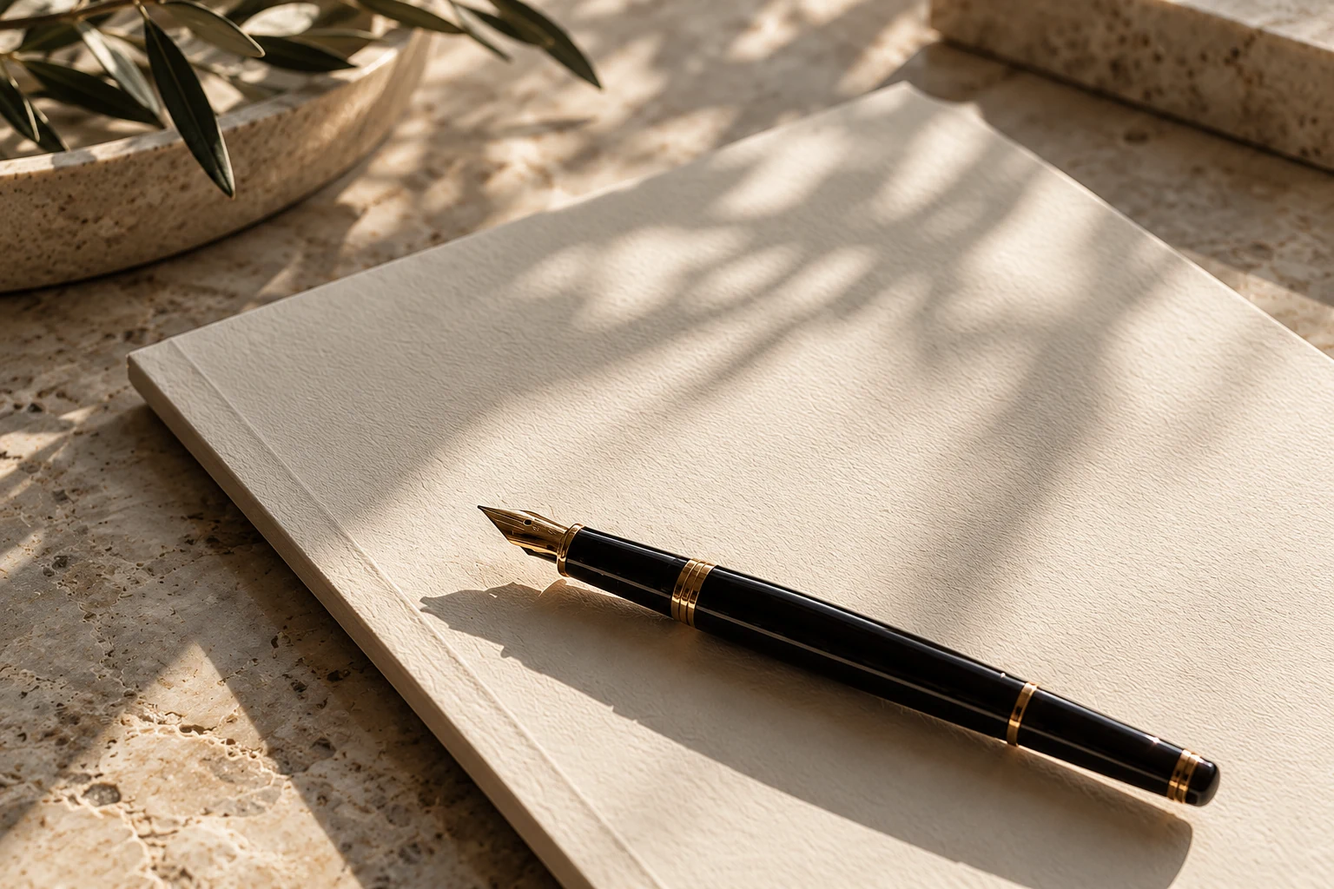
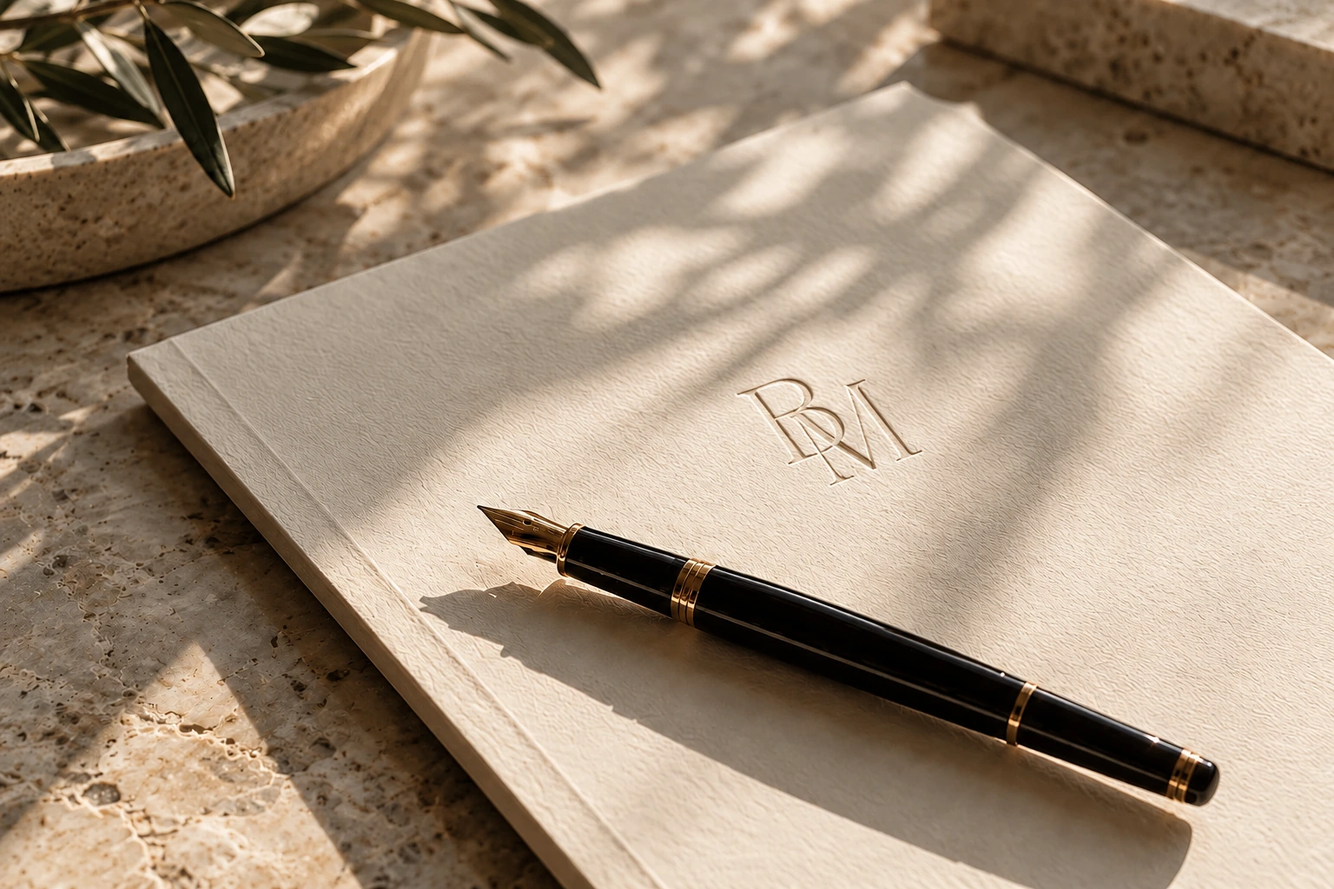
Add embossed BM monogram to paper photograph

diff --git a/site/index.html b/site/index.html
@@ -1,2 +1,2 @@
 <!doctype html>
-<html lang="el"><head><meta charset="utf-8"><meta name="viewport" content="width=device-width,initial-scale=1"><meta name="robots" content="noindex,nofollow"><meta name="description" content="Δικηγορία και διαπιστευμένη διαμεσολάβηση στο Κολωνάκι. Το γραφείο, οι τομείς δικαίου και η επικοινωνία."><title>ΒΑΣΙΛΙΚΗ ΜΑΛΛΙΑΡΟΥ | Δικηγόρος στο Κολωνάκι</title><link rel="icon" href="favicon.svg" type="image/svg+xml"><link rel="preload" href="assets/gfs-didot.ttf" as="font" type="font/ttf" crossorigin><link rel="preload" href="assets/noto-sans.ttf" as="font" type="font/ttf" crossorigin><link rel="stylesheet" href="styles.css"><script src="site.js" defer></script></head><body><a class="skip" href="#main">Μετάβαση στο περιεχόμενο</a><header class="site-header"><div class="wrap header-inner"><a class="brand reveal" href="index.html" aria-label="ΒΑΣΙΛΙΚΗ ΜΑΛΛΙΑΡΟΥ — Αρχική"><span class="monogram" aria-hidden="true"><span>Β</span><span>Μ</span></span><span class="brand-name">ΒΑΣΙΛΙΚΗ ΜΑΛΛΙΑΡΟΥ</span></a><button class="menu-toggle" type="button" aria-controls="navigation" aria-expanded="false">Μενού</button><nav class="primary-nav reveal" id="navigation" aria-label="Κύρια πλοήγηση" style="--delay:60ms"><a href="grafeio.html">Το γραφείο</a><a href="tomeis.html">Τομείς δικαίου</a><a href="diamesolavisi.html">Διαμεσολάβηση</a><a href="epikoinonia.html">Επικοινωνία</a></nav></div></header><main id="main"><div class="wrap"><section class="hero"><h1 class="reveal" style="--delay:120ms">Η υπόθεσή σας<br>στο επίκεντρο.</h1><p class="lead reveal" style="--delay:180ms">Δικηγόρος και διαπιστευμένη διαμεσολαβήτρια στο Κολωνάκι.</p><div class="reveal" style="--delay:240ms"><a class="button" href="epikoinonia.html">Επικοινωνία</a></div></section><div class="hero-diptych"><figure class=" reveal"><img src="assets/paper-pen.webp" alt="" width="1600" height="1067" loading="eager" fetchpriority="high" decoding="async" style=""></figure><figure class=" reveal"><img src="assets/bronze-stone.webp" alt="" width="1600" height="1067" loading="lazy" decoding="async" style=""></figure></div><section class="section split"><div><h2 class="reveal">Το γραφείο</h2><figure class="office-photo reveal"><img src="assets/light-door.webp" alt="" width="1600" height="1067" loading="lazy" decoding="async" style=""></figure></div><div class="reveal"><p class="statement">Δικηγορία και διαμεσολάβηση στην Αθήνα.</p><p>Το γραφείο ΒΑΣΙΛΙΚΗ ΜΑΛΛΙΑΡΟΥ βρίσκεται στην οδό Μέρλιν 11, στο Κολωνάκι. Η επαγγελματική παρουσία συνδυάζει τη δικηγορία με τη διαπιστευμένη διαμεσολάβηση.</p><p>Γνωρίστε τους τομείς δικαίου, διαβάστε μια σύντομη εισαγωγή στη διαμεσολάβηση και επιλέξτε τον τρόπο επικοινωνίας που σας εξυπηρετεί.</p><a class="text-link" href="grafeio.html">Γνωρίστε το γραφείο</a><p class="location">Μέρλιν 11, Κολωνάκι</p></div></section><section class="section practice-overview" style="padding-top:0"><div class="section-heading reveal"><h2>Τομείς δικαίου</h2><p>Βρείτε το θέμα που βρίσκεται πιο κοντά στο ερώτημά σας. Η επιλογή κατηγορίας βοηθά στην πρώτη περιγραφή· η συγκεκριμένη υπόθεση χρειάζεται δική της αξιολόγηση.</p><a class="text-link" href="tomeis.html">Δείτε τους τομείς αναλυτικά</a></div><div class="practice-links"><a class="reveal" href="tomeis.html#poiniko"><h3>Ποινικό Δίκαιο</h3><p>Ζητήματα που συνδέονται με ποινικές υποθέσεις και διαδικασίες.</p></a><a class="reveal" href="tomeis.html#astiko"><h3>Αστικό Δίκαιο</h3><p>Ιδιωτικές σχέσεις, δικαιώματα και διαφορές.</p></a><a class="reveal" href="tomeis.html#oikogeneiako"><h3>Οικογενειακό Δίκαιο</h3><p>Ζητήματα που προκύπτουν στις οικογενειακές σχέσεις.</p></a><a class="reveal" href="tomeis.html#symvaseis"><h3>Δίκαιο Συμβάσεων</h3><p>Συμφωνίες, όροι και συμβατικές υποχρεώσεις.</p></a><a class="reveal" href="tomeis.html#allodapon"><h3>Δίκαιο Αλλοδαπών</h3><p>Ζητήματα διαμονής και διοικητικών διαδικασιών.</p></a><a class="reveal" href="tomeis.html#diamesolavisi"><h3>Διαμεσολάβηση</h3><p>Μια διαδικασία διαλόγου για την επίλυση διαφορών.</p></a></div></section></div><section class="tone"><div class="wrap split"><div class="reveal"><h2>Δίκαιο και διάλογος</h2><p class="statement">Μια διαδικασία διαλόγου για την επίλυση διαφορών.</p><p>Η διαμεσολάβηση δίνει χώρο στην επικοινωνία των μερών, με τη βοήθεια ενός ουδέτερου τρίτου προσώπου. Στόχος είναι να διερευνηθεί αν μπορεί να βρεθεί κοινά αποδεκτή λύση.</p><a class="text-link" href="diamesolavisi.html">Γνωρίστε τη διαμεσολάβηση</a></div><figure class="feature-photo reveal"><img src="assets/quiet-table.webp" alt="" width="1600" height="1067" loading="lazy" decoding="async" style=""></figure></div></section><section class="section wrap contact-close"><div class="reveal"><h2>Η πρώτη επικοινωνία</h2><p>Μια σύντομη περιγραφή του θέματος και των βασικών ημερομηνιών είναι μια χρήσιμη αρχή. Δεν χρειάζεται να γνωρίζετε τον ακριβή νομικό όρο για να περιγράψετε όσα σας απασχολούν.</p></div><div class="reveal"><p class="lead">Επιλέξτε τον τρόπο επικοινωνίας που σας εξυπηρετεί.</p><a class="button" href="epikoinonia.html">Επικοινωνία</a><div class="contact-inline"><a href="tel:+306943598746">694 359 8746</a><a href="tel:+302103603919">210 360 3919</a></div></div></section></main><footer class="site-footer"><div class="wrap"><div class="footer-main"><div><h2>Επικοινωνία</h2><p class="footer-brand">ΒΑΣΙΛΙΚΗ ΜΑΛΛΙΑΡΟΥ</p><p>Δικηγόρος · Διαπιστευμένη Διαμεσολαβήτρια</p></div><div><p>Μέρλιν 11, Κολωνάκι, 10671 Αθήνα</p><p><a href="tel:+306943598746">694 359 8746</a> &nbsp; <a href="tel:+302103603919">210 360 3919</a></p><a class="button" href="epikoinonia.html">Επικοινωνία</a></div></div><nav class="footer-links" aria-label="Πλοήγηση υποσέλιδου"><a href="grafeio.html">Το γραφείο</a><a href="tomeis.html">Τομείς δικαίου</a><a href="diamesolavisi.html">Διαμεσολάβηση</a><a href="epikoinonia.html">Επικοινωνία</a></nav><div class="footer-notes"><p>Επίδειξη σχεδιασμού ιστοσελίδας. Οι εικόνες και το μονόγραμμα αποτελούν οπτική πρόταση.</p><p>Το περιεχόμενο είναι γενικό και δεν αποτελεί εξατομικευμένη νομική συμβουλή.</p></div></div></footer></body></html>
+<html lang="el"><head><meta charset="utf-8"><meta name="viewport" content="width=device-width,initial-scale=1"><meta name="robots" content="noindex,nofollow"><meta name="description" content="Δικηγορία και διαπιστευμένη διαμεσολάβηση στο Κολωνάκι. Το γραφείο, οι τομείς δικαίου και η επικοινωνία."><title>ΒΑΣΙΛΙΚΗ ΜΑΛΛΙΑΡΟΥ | Δικηγόρος στο Κολωνάκι</title><link rel="icon" href="favicon.svg" type="image/svg+xml"><link rel="preload" href="assets/gfs-didot.ttf" as="font" type="font/ttf" crossorigin><link rel="preload" href="assets/noto-sans.ttf" as="font" type="font/ttf" crossorigin><link rel="stylesheet" href="styles.css"><script src="site.js" defer></script></head><body><a class="skip" href="#main">Μετάβαση στο περιεχόμενο</a><header class="site-header"><div class="wrap header-inner"><a class="brand reveal" href="index.html" aria-label="ΒΑΣΙΛΙΚΗ ΜΑΛΛΙΑΡΟΥ — Αρχική"><span class="monogram" aria-hidden="true"><span>Β</span><span>Μ</span></span><span class="brand-name">ΒΑΣΙΛΙΚΗ ΜΑΛΛΙΑΡΟΥ</span></a><button class="menu-toggle" type="button" aria-controls="navigation" aria-expanded="false">Μενού</button><nav class="primary-nav reveal" id="navigation" aria-label="Κύρια πλοήγηση" style="--delay:60ms"><a href="grafeio.html">Το γραφείο</a><a href="tomeis.html">Τομείς δικαίου</a><a href="diamesolavisi.html">Διαμεσολάβηση</a><a href="epikoinonia.html">Επικοινωνία</a></nav></div></header><main id="main"><div class="wrap"><section class="hero"><h1 class="reveal" style="--delay:120ms">Η υπόθεσή σας<br>στο επίκεντρο.</h1><p class="lead reveal" style="--delay:180ms">Δικηγόρος και διαπιστευμένη διαμεσολαβήτρια στο Κολωνάκι.</p><div class="reveal" style="--delay:240ms"><a class="button" href="epikoinonia.html">Επικοινωνία</a></div></section><div class="hero-diptych"><figure class=" reveal"><img src="assets/paper-pen.webp?v=bm-1" alt="" width="1600" height="1067" loading="eager" fetchpriority="high" decoding="async" style=""></figure><figure class=" reveal"><img src="assets/bronze-stone.webp" alt="" width="1600" height="1067" loading="lazy" decoding="async" style=""></figure></div><section class="section split"><div><h2 class="reveal">Το γραφείο</h2><figure class="office-photo reveal"><img src="assets/light-door.webp" alt="" width="1600" height="1067" loading="lazy" decoding="async" style=""></figure></div><div class="reveal"><p class="statement">Δικηγορία και διαμεσολάβηση στην Αθήνα.</p><p>Το γραφείο ΒΑΣΙΛΙΚΗ ΜΑΛΛΙΑΡΟΥ βρίσκεται στην οδό Μέρλιν 11, στο Κολωνάκι. Η επαγγελματική παρουσία συνδυάζει τη δικηγορία με τη διαπιστευμένη διαμεσολάβηση.</p><p>Γνωρίστε τους τομείς δικαίου, διαβάστε μια σύντομη εισαγωγή στη διαμεσολάβηση και επιλέξτε τον τρόπο επικοινωνίας που σας εξυπηρετεί.</p><a class="text-link" href="grafeio.html">Γνωρίστε το γραφείο</a><p class="location">Μέρλιν 11, Κολωνάκι</p></div></section><section class="section practice-overview" style="padding-top:0"><div class="section-heading reveal"><h2>Τομείς δικαίου</h2><p>Βρείτε το θέμα που βρίσκεται πιο κοντά στο ερώτημά σας. Η επιλογή κατηγορίας βοηθά στην πρώτη περιγραφή· η συγκεκριμένη υπόθεση χρειάζεται δική της αξιολόγηση.</p><a class="text-link" href="tomeis.html">Δείτε τους τομείς αναλυτικά</a></div><div class="practice-links"><a class="reveal" href="tomeis.html#poiniko"><h3>Ποινικό Δίκαιο</h3><p>Ζητήματα που συνδέονται με ποινικές υποθέσεις και διαδικασίες.</p></a><a class="reveal" href="tomeis.html#astiko"><h3>Αστικό Δίκαιο</h3><p>Ιδιωτικές σχέσεις, δικαιώματα και διαφορές.</p></a><a class="reveal" href="tomeis.html#oikogeneiako"><h3>Οικογενειακό Δίκαιο</h3><p>Ζητήματα που προκύπτουν στις οικογενειακές σχέσεις.</p></a><a class="reveal" href="tomeis.html#symvaseis"><h3>Δίκαιο Συμβάσεων</h3><p>Συμφωνίες, όροι και συμβατικές υποχρεώσεις.</p></a><a class="reveal" href="tomeis.html#allodapon"><h3>Δίκαιο Αλλοδαπών</h3><p>Ζητήματα διαμονής και διοικητικών διαδικασιών.</p></a><a class="reveal" href="tomeis.html#diamesolavisi"><h3>Διαμεσολάβηση</h3><p>Μια διαδικασία διαλόγου για την επίλυση διαφορών.</p></a></div></section></div><section class="tone"><div class="wrap split"><div class="reveal"><h2>Δίκαιο και διάλογος</h2><p class="statement">Μια διαδικασία διαλόγου για την επίλυση διαφορών.</p><p>Η διαμεσολάβηση δίνει χώρο στην επικοινωνία των μερών, με τη βοήθεια ενός ουδέτερου τρίτου προσώπου. Στόχος είναι να διερευνηθεί αν μπορεί να βρεθεί κοινά αποδεκτή λύση.</p><a class="text-link" href="diamesolavisi.html">Γνωρίστε τη διαμεσολάβηση</a></div><figure class="feature-photo reveal"><img src="assets/quiet-table.webp" alt="" width="1600" height="1067" loading="lazy" decoding="async" style=""></figure></div></section><section class="section wrap contact-close"><div class="reveal"><h2>Η πρώτη επικοινωνία</h2><p>Μια σύντομη περιγραφή του θέματος και των βασικών ημερομηνιών είναι μια χρήσιμη αρχή. Δεν χρειάζεται να γνωρίζετε τον ακριβή νομικό όρο για να περιγράψετε όσα σας απασχολούν.</p></div><div class="reveal"><p class="lead">Επιλέξτε τον τρόπο επικοινωνίας που σας εξυπηρετεί.</p><a class="button" href="epikoinonia.html">Επικοινωνία</a><div class="contact-inline"><a href="tel:+306943598746">694 359 8746</a><a href="tel:+302103603919">210 360 3919</a></div></div></section></main><footer class="site-footer"><div class="wrap"><div class="footer-main"><div><h2>Επικοινωνία</h2><p class="footer-brand">ΒΑΣΙΛΙΚΗ ΜΑΛΛΙΑΡΟΥ</p><p>Δικηγόρος · Διαπιστευμένη Διαμεσολαβήτρια</p></div><div><p>Μέρλιν 11, Κολωνάκι, 10671 Αθήνα</p><p><a href="tel:+306943598746">694 359 8746</a> &nbsp; <a href="tel:+302103603919">210 360 3919</a></p><a class="button" href="epikoinonia.html">Επικοινωνία</a></div></div><nav class="footer-links" aria-label="Πλοήγηση υποσέλιδου"><a href="grafeio.html">Το γραφείο</a><a href="tomeis.html">Τομείς δικαίου</a><a href="diamesolavisi.html">Διαμεσολάβηση</a><a href="epikoinonia.html">Επικοινωνία</a></nav><div class="footer-notes"><p>Επίδειξη σχεδιασμού ιστοσελίδας. Οι εικόνες και το μονόγραμμα αποτελούν οπτική πρόταση.</p><p>Το περιεχόμενο είναι γενικό και δεν αποτελεί εξατομικευμένη νομική συμβουλή.</p></div></div></footer></body></html>

diff --git a/site/grafeio.html b/site/grafeio.html
@@ -1,2 +1,2 @@
 <!doctype html>
-<html lang="el"><head><meta charset="utf-8"><meta name="viewport" content="width=device-width,initial-scale=1"><meta name="robots" content="noindex,nofollow"><meta name="description" content="Το δικηγορικό γραφείο στη Μέρλιν 11, Κολωνάκι. Δικηγορία και διαπιστευμένη διαμεσολάβηση."><title>Το γραφείο | ΒΑΣΙΛΙΚΗ ΜΑΛΛΙΑΡΟΥ</title><link rel="icon" href="favicon.svg" type="image/svg+xml"><link rel="preload" href="assets/gfs-didot.ttf" as="font" type="font/ttf" crossorigin><link rel="preload" href="assets/noto-sans.ttf" as="font" type="font/ttf" crossorigin><link rel="stylesheet" href="styles.css"><script src="site.js" defer></script></head><body><a class="skip" href="#main">Μετάβαση στο περιεχόμενο</a><header class="site-header"><div class="wrap header-inner"><a class="brand reveal" href="index.html" aria-label="ΒΑΣΙΛΙΚΗ ΜΑΛΛΙΑΡΟΥ — Αρχική"><span class="monogram" aria-hidden="true"><span>Β</span><span>Μ</span></span><span class="brand-name">ΒΑΣΙΛΙΚΗ ΜΑΛΛΙΑΡΟΥ</span></a><button class="menu-toggle" type="button" aria-controls="navigation" aria-expanded="false">Μενού</button><nav class="primary-nav reveal" id="navigation" aria-label="Κύρια πλοήγηση" style="--delay:60ms"><a href="grafeio.html" aria-current="page">Το γραφείο</a><a href="tomeis.html">Τομείς δικαίου</a><a href="diamesolavisi.html">Διαμεσολάβηση</a><a href="epikoinonia.html">Επικοινωνία</a></nav></div></header><main id="main"><div class="wrap"><section class="page-hero"><h1 class="reveal">Το γραφείο</h1><div class="reveal"><p class="lead">ΒΑΣΙΛΙΚΗ ΜΑΛΛΙΑΡΟΥ<br>Δικηγόρος και διαπιστευμένη διαμεσολαβήτρια στην Αθήνα.</p><a class="button" href="epikoinonia.html">Επικοινωνία</a></div></section><figure class="wide-image reveal"><img src="assets/light-door.webp" alt="" width="1600" height="1067" loading="eager" fetchpriority="high" decoding="async" style=""></figure><section class="section reading-split"><div class="reveal"><h2>Στο Κολωνάκι</h2><p class="lead">Μέρλιν 11, Αθήνα.</p></div><div class="reveal"><p>Η επαγγελματική έδρα βρίσκεται στη Μέρλιν 11, στο Κολωνάκι. Εδώ συγκεντρώνονται οι βασικές πληροφορίες για το γραφείο και οι διαθέσιμοι τρόποι επικοινωνίας.</p><dl class="address-list"><dt>Διεύθυνση</dt><dd>Μέρλιν 11, Κολωνάκι, 10671 Αθήνα</dd><dt>Τηλέφωνα</dt><dd><a href="tel:+306943598746">694 359 8746</a> και <a href="tel:+302103603919">210 360 3919</a></dd><dt>Email</dt><dd><a href="mailto:vasia_malliarou@yahoo.com">vasia_malliarou@yahoo.com</a></dd></dl></div></section></div><section class="tone"><div class="wrap"><h2 class="reveal">Δύο επαγγελματικοί ρόλοι</h2><div class="roles"><div class="reveal"><h3>Δικηγορία</h3><p>Οι τομείς που παρουσιάζονται στον ιστότοπο καλύπτουν διαφορετικές κατηγορίες νομικών ζητημάτων. Η περιγραφή τους βοηθά στην πρώτη ενημέρωση και δεν υποκαθιστά την εξέταση των πραγματικών περιστατικών μιας υπόθεσης.</p><a class="text-link" href="tomeis.html">Τομείς δικαίου</a></div><div class="reveal"><h3>Διαμεσολάβηση</h3><p>Η ΒΑΣΙΛΙΚΗ ΜΑΛΛΙΑΡΟΥ είναι διαπιστευμένη διαμεσολαβήτρια και περιλαμβάνεται στο επίσημο μητρώο του Υπουργείου Δικαιοσύνης. Η διαμεσολάβηση είναι διακριτή διαδικασία με ουδέτερο ρόλο για τον διαμεσολαβητή.</p><a class="text-link" href="diamesolavisi.html">Γνωρίστε τη διαμεσολάβηση</a></div></div></div></section><section class="section wrap split"><div class="reveal"><h2>Πριν επικοινωνήσετε</h2><p>Σκεφτείτε ποιο είναι το κύριο ερώτημά σας, ποια γεγονότα θεωρείτε σημαντικά και ποιες ημερομηνίες συνδέονται με το θέμα. Δεν χρειάζεται να γνωρίζετε τον ακριβή νομικό όρο για να περιγράψετε όσα σας απασχολούν.</p><p>Για την πρώτη επικοινωνία αρκεί μια σύντομη περιγραφή. Η αποστολή εγγράφων και η διαχείριση ευαίσθητων πληροφοριών μπορούν να συζητηθούν χωριστά με το γραφείο.</p><a class="button" href="epikoinonia.html">Επικοινωνία</a></div><figure class="feature-photo reveal"><img src="assets/paper-pen.webp" alt="" width="1600" height="1067" loading="lazy" decoding="async" style=""></figure></section></main><footer class="site-footer"><div class="wrap"><div class="footer-main"><div><h2>Επικοινωνία</h2><p class="footer-brand">ΒΑΣΙΛΙΚΗ ΜΑΛΛΙΑΡΟΥ</p><p>Δικηγόρος · Διαπιστευμένη Διαμεσολαβήτρια</p></div><div><p>Μέρλιν 11, Κολωνάκι, 10671 Αθήνα</p><p><a href="tel:+306943598746">694 359 8746</a> &nbsp; <a href="tel:+302103603919">210 360 3919</a></p><a class="button" href="epikoinonia.html">Επικοινωνία</a></div></div><nav class="footer-links" aria-label="Πλοήγηση υποσέλιδου"><a href="grafeio.html" aria-current="page">Το γραφείο</a><a href="tomeis.html">Τομείς δικαίου</a><a href="diamesolavisi.html">Διαμεσολάβηση</a><a href="epikoinonia.html">Επικοινωνία</a></nav><div class="footer-notes"><p>Επίδειξη σχεδιασμού ιστοσελίδας. Οι εικόνες και το μονόγραμμα αποτελούν οπτική πρόταση.</p><p>Το περιεχόμενο είναι γενικό και δεν αποτελεί εξατομικευμένη νομική συμβουλή.</p></div></div></footer></body></html>
+<html lang="el"><head><meta charset="utf-8"><meta name="viewport" content="width=device-width,initial-scale=1"><meta name="robots" content="noindex,nofollow"><meta name="description" content="Το δικηγορικό γραφείο στη Μέρλιν 11, Κολωνάκι. Δικηγορία και διαπιστευμένη διαμεσολάβηση."><title>Το γραφείο | ΒΑΣΙΛΙΚΗ ΜΑΛΛΙΑΡΟΥ</title><link rel="icon" href="favicon.svg" type="image/svg+xml"><link rel="preload" href="assets/gfs-didot.ttf" as="font" type="font/ttf" crossorigin><link rel="preload" href="assets/noto-sans.ttf" as="font" type="font/ttf" crossorigin><link rel="stylesheet" href="styles.css"><script src="site.js" defer></script></head><body><a class="skip" href="#main">Μετάβαση στο περιεχόμενο</a><header class="site-header"><div class="wrap header-inner"><a class="brand reveal" href="index.html" aria-label="ΒΑΣΙΛΙΚΗ ΜΑΛΛΙΑΡΟΥ — Αρχική"><span class="monogram" aria-hidden="true"><span>Β</span><span>Μ</span></span><span class="brand-name">ΒΑΣΙΛΙΚΗ ΜΑΛΛΙΑΡΟΥ</span></a><button class="menu-toggle" type="button" aria-controls="navigation" aria-expanded="false">Μενού</button><nav class="primary-nav reveal" id="navigation" aria-label="Κύρια πλοήγηση" style="--delay:60ms"><a href="grafeio.html" aria-current="page">Το γραφείο</a><a href="tomeis.html">Τομείς δικαίου</a><a href="diamesolavisi.html">Διαμεσολάβηση</a><a href="epikoinonia.html">Επικοινωνία</a></nav></div></header><main id="main"><div class="wrap"><section class="page-hero"><h1 class="reveal">Το γραφείο</h1><div class="reveal"><p class="lead">ΒΑΣΙΛΙΚΗ ΜΑΛΛΙΑΡΟΥ<br>Δικηγόρος και διαπιστευμένη διαμεσολαβήτρια στην Αθήνα.</p><a class="button" href="epikoinonia.html">Επικοινωνία</a></div></section><figure class="wide-image reveal"><img src="assets/light-door.webp" alt="" width="1600" height="1067" loading="eager" fetchpriority="high" decoding="async" style=""></figure><section class="section reading-split"><div class="reveal"><h2>Στο Κολωνάκι</h2><p class="lead">Μέρλιν 11, Αθήνα.</p></div><div class="reveal"><p>Η επαγγελματική έδρα βρίσκεται στη Μέρλιν 11, στο Κολωνάκι. Εδώ συγκεντρώνονται οι βασικές πληροφορίες για το γραφείο και οι διαθέσιμοι τρόποι επικοινωνίας.</p><dl class="address-list"><dt>Διεύθυνση</dt><dd>Μέρλιν 11, Κολωνάκι, 10671 Αθήνα</dd><dt>Τηλέφωνα</dt><dd><a href="tel:+306943598746">694 359 8746</a> και <a href="tel:+302103603919">210 360 3919</a></dd><dt>Email</dt><dd><a href="mailto:vasia_malliarou@yahoo.com">vasia_malliarou@yahoo.com</a></dd></dl></div></section></div><section class="tone"><div class="wrap"><h2 class="reveal">Δύο επαγγελματικοί ρόλοι</h2><div class="roles"><div class="reveal"><h3>Δικηγορία</h3><p>Οι τομείς που παρουσιάζονται στον ιστότοπο καλύπτουν διαφορετικές κατηγορίες νομικών ζητημάτων. Η περιγραφή τους βοηθά στην πρώτη ενημέρωση και δεν υποκαθιστά την εξέταση των πραγματικών περιστατικών μιας υπόθεσης.</p><a class="text-link" href="tomeis.html">Τομείς δικαίου</a></div><div class="reveal"><h3>Διαμεσολάβηση</h3><p>Η ΒΑΣΙΛΙΚΗ ΜΑΛΛΙΑΡΟΥ είναι διαπιστευμένη διαμεσολαβήτρια και περιλαμβάνεται στο επίσημο μητρώο του Υπουργείου Δικαιοσύνης. Η διαμεσολάβηση είναι διακριτή διαδικασία με ουδέτερο ρόλο για τον διαμεσολαβητή.</p><a class="text-link" href="diamesolavisi.html">Γνωρίστε τη διαμεσολάβηση</a></div></div></div></section><section class="section wrap split"><div class="reveal"><h2>Πριν επικοινωνήσετε</h2><p>Σκεφτείτε ποιο είναι το κύριο ερώτημά σας, ποια γεγονότα θεωρείτε σημαντικά και ποιες ημερομηνίες συνδέονται με το θέμα. Δεν χρειάζεται να γνωρίζετε τον ακριβή νομικό όρο για να περιγράψετε όσα σας απασχολούν.</p><p>Για την πρώτη επικοινωνία αρκεί μια σύντομη περιγραφή. Η αποστολή εγγράφων και η διαχείριση ευαίσθητων πληροφοριών μπορούν να συζητηθούν χωριστά με το γραφείο.</p><a class="button" href="epikoinonia.html">Επικοινωνία</a></div><figure class="feature-photo reveal"><img src="assets/paper-pen.webp?v=bm-1" alt="" width="1600" height="1067" loading="lazy" decoding="async" style=""></figure></section></main><footer class="site-footer"><div class="wrap"><div class="footer-main"><div><h2>Επικοινωνία</h2><p class="footer-brand">ΒΑΣΙΛΙΚΗ ΜΑΛΛΙΑΡΟΥ</p><p>Δικηγόρος · Διαπιστευμένη Διαμεσολαβήτρια</p></div><div><p>Μέρλιν 11, Κολωνάκι, 10671 Αθήνα</p><p><a href="tel:+306943598746">694 359 8746</a> &nbsp; <a href="tel:+302103603919">210 360 3919</a></p><a class="button" href="epikoinonia.html">Επικοινωνία</a></div></div><nav class="footer-links" aria-label="Πλοήγηση υποσέλιδου"><a href="grafeio.html" aria-current="page">Το γραφείο</a><a href="tomeis.html">Τομείς δικαίου</a><a href="diamesolavisi.html">Διαμεσολάβηση</a><a href="epikoinonia.html">Επικοινωνία</a></nav><div class="footer-notes"><p>Επίδειξη σχεδιασμού ιστοσελίδας. Οι εικόνες και το μονόγραμμα αποτελούν οπτική πρόταση.</p><p>Το περιεχόμενο είναι γενικό και δεν αποτελεί εξατομικευμένη νομική συμβουλή.</p></div></div></footer></body></html>
